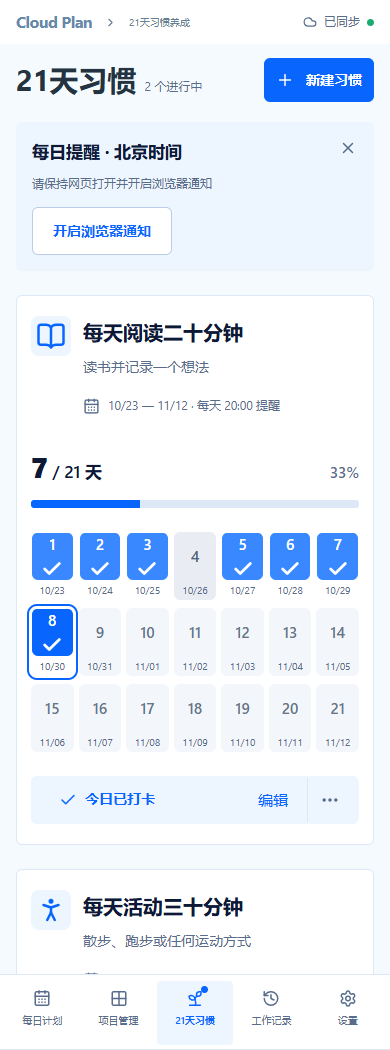
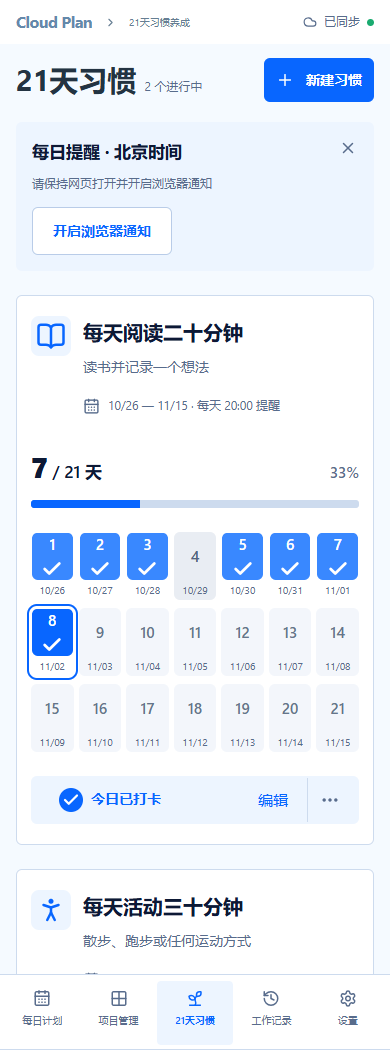
docs: refresh README for approved UI and deferred cloud sync

diff --git a/README.md b/README.md
@@ -1,6 +1,6 @@
 # Cloud Plan · 个人计划空间
 
-**让计划清晰，让生活轻盈。**
+**让计划灵活，让生活轻盈。**
 
 Cloud Plan 是一款中文个人计划工具，将每日清单、周重点、长期目标、习惯打卡和工作记录放在同一个空间里。从安排今天要做的事，到回顾一段时间的投入与成果，手机和电脑都可以接续使用。
 
@@ -8,41 +8,49 @@ Cloud Plan 是一款中文个人计划工具，将每日清单、周重点、长
 
 ![Cloud Plan 欢迎页](docs/images/welcome.png)
 
-> 以下为 2026-10-30 更新的「晴空编辑部」界面演示截图，不包含真实个人计划或访问密钥。点击图片可查看大图。
+> 以下为 2026-11-02 更新的蓝白工作台界面演示截图，不包含真实个人计划或访问密钥。点击图片可查看大图。
+
+## 最近更新
+
+- **连续编辑与延迟同步**：操作立即反馈，停止编辑 30 秒后自动同步；继续修改会重新计时，也可点击同步状态立即上传。
+- **每日工作台**：横向七天日历、今日重点、轻量进度条与可折叠完成清单；右侧集中展示本周重点。
+- **项目层级与时间轴**：项目、子项目和子任务以连线区分，进度、截止日期与操作对齐；展开时间轴项目可直接查看相关子任务。
+- **四象限共享画布**：实线坐标轴、外围虚线和红黄蓝灰分类圆点，保留嵌套项目气泡与可拖动的白色任务卡。
+- **统一页面细节**：更新习惯打卡、完成记录图表、设置备份及欢迎页，操作菜单按需展开。
 
 ## 界面一览
 
-界面采用「晴空编辑部」风格：云白与浅天蓝底色、蓝色操作按钮、衬线标题和细分隔线，让任务内容成为视觉重点。桌面端通过导航栏切换页面，手机端使用底部导航；每日清单、目标卡片和统计图会随屏幕尺寸调整布局。
+界面采用蓝白工作台设计：浅蓝背景、白色内容区、无衬线标题和蓝色操作按钮，以层级连线、分栏及进度条呈现任务关系。桌面端通过导航栏切换页面，手机端使用底部导航；每日清单、目标卡片和统计图会随屏幕尺寸调整布局。
 
 | 页面 / 区域 | 你可以看到和完成什么 |
 | --- | --- |
 | 每日计划 | 本周重点、七天概览、当天待办、完成进度和往日未完成事项 |
 | 项目管理 | 项目层级、漂浮四象限、时间轴、每日安排和周目标关联 |
-| 21天习惯养成 | 习惯卡片、21 天打卡格、练习进度和每日提醒 |
+| 21天习惯 | 习惯卡片、21 天打卡格、练习进度和每日提醒 |
 | 工作记录 | 今日、本周、近 30 天工作时长，以及完成量趋势与完成记录 |
 | 设置与备份 | 导出与恢复计划数据、管理当前设备记住的访问密钥 |
 
 ## 每日计划：把今天安排清楚
 
-![每日计划：左侧查看当日清单与进度，右侧安排周重点并切换日期。](docs/images/daily.png)
+![每日计划：顶部七天日历切换日期，左侧查看今日清单与进度，右侧安排本周重点。](docs/images/daily.png)
 
-每日计划：左侧查看当日清单与进度，右侧安排周重点并切换日期。
+每日计划：顶部七天日历切换日期，左侧查看今日清单与进度，右侧安排本周重点。
 
-选择日期即可查看当天清单，新增任务、点击标题编辑，或勾选完成。任务支持备注、计划日期和截止日期，可以用上下箭头调整顺序。
+选择日期即可查看当天清单，新增任务、点击标题编辑，或勾选完成。任务支持备注、计划日期和截止日期，可在任务操作菜单中调整顺序、安排日期或管理任务。
 
-- **当日进度**：通过概览与进度环查看当天的完成情况。
+- **当日进度**：通过完成数量与横向进度条查看当天的完成情况。
 - **目标联动**：项目或周重点的子任务可一键加入选定日期的每日清单，完成状态在各视图保持一致。
 - **拖动改期**：通过任务的拖动安排入口，将每日任务或周重点子任务拖到日期目标，调整计划日期。项目子任务也可撤回每日计划，保留原项目记录。
 - **往日待办**：展开未完成事项，按需逐条或批量顺延，避免遗漏。
 - **即时操作反馈**：新增、编辑、改期、完成等变更立即显示；停止修改 30 秒后后台同步，有新变更会重新计时。点击右上角同步状态可立即上传。未同步时离开页面会提示，请等待“已同步”后关闭。
 
-计划日期表示准备在哪天做，截止日期表示最晚何时完成，两者可以分别设置。完成事项会移出待办列表，并进入完成记录。
+计划日期表示准备在哪天做，截止日期表示最晚何时完成，两者可以分别设置。完成事项收纳到可折叠的已完成分组，并可在工作记录中回顾。
 
 ## 周计划：先确定这一周的重点
 
 桌面端每日清单右侧提供周计划区域，以北京时间的周一至周日为一周。
 
-可以切换周次，新增、编辑、删除和完成本周重点；七天概览显示各日待办数量，点击某一天即可切换下方清单。周重点支持拆分子任务并安排到每日清单。项目也可以加入所属周目标，直接展示原项目及其进度，无需复制记录。
+可以切换周次，新增、编辑、删除和完成本周重点；页面顶部的七天日历显示每日任务数量，点击日期即可切换当天清单。周重点支持拆分子任务并安排到每日清单。项目也可以加入所属周目标，直接展示原项目及其进度，无需复制记录。
 
 未完成重点会保留在所属周，不会自动顺延到下一周。
 
@@ -50,7 +58,7 @@ Cloud Plan 是一款中文个人计划工具，将每日清单、周重点、长
 
 ![项目列表：展开项目与子项目，查看子任务并加入每日计划](docs/images/goals-list.png)
 
-项目列表用可折叠的层级组织内容：上层项目承载方向，子项目划分阶段，子任务落实具体行动。展开项目即可查看完成数量，继续添加子项目或子任务；项目设置收纳编辑、完成与删除等操作。
+项目列表用可折叠的层级组织内容：上层项目承载方向，子项目划分阶段，子任务落实具体行动。展开项目即可查看完成数量，继续添加子项目或子任务；行末省略号菜单收纳编辑、完成与删除等操作，层级连线帮助识别所属关系。
 
 - **安排到每天**：选择安排日期，点击子任务的“加入每日计划”。各页面引用同一条记录，避免重复创建任务。
 - **关联周目标**：将项目加入选定周的目标，在每日页面的周计划区域继续查看和推进。
@@ -64,7 +72,8 @@ Cloud Plan 是一款中文个人计划工具，将每日清单、周重点、长
 
 切换到“子任务四象限”，按重要与紧急程度查看未完成子任务，也可用顶部分类按钮只显示一个象限。
 
-- **漂浮任务卡片**：卡片随标题长度调整尺寸，以颜色体现截止日期优先级，在区域内缓慢移动并避让。
+- **共享画布**：纵轴向上表示更重要，横轴向左表示更紧急；外围虚线划定范围，红、黄、蓝、灰小圆点标识四类象限。
+- **白色任务卡片**：统一使用白色卡片展示标题和日期，保留缓慢漂浮、避让及拖动能力。
 - **项目气泡**：椭圆气泡包裹所属项目的任务，嵌套气泡表达子项目层级。直接子项目超过 3 个时省略该层气泡，减少视觉拥挤。
 - **展开与迁移**：单击标题查看详情；鼠标按住即可拖动，触屏长按约 180 毫秒后拖动，通过迁移目标调整象限。键盘可使用 Shift+Enter 选择象限。
 
@@ -90,9 +99,9 @@ Cloud Plan 是一款中文个人计划工具，将每日清单、周重点、长
 
 ## 工作记录：回顾时间投入与完成成果
 
-![工作记录：上方汇总投入时长，下方用分类柱状图和完成清单回顾成果。](docs/images/work.png)
+![工作记录：顶部汇总投入时长，中间并排查看时长与完成量图表，下方搜索和回顾完成记录。](docs/images/work.png)
 
-工作记录：上方汇总投入时长，下方用分类柱状图和完成清单回顾成果。
+工作记录：顶部汇总投入时长，中间并排查看时长与完成量图表，下方搜索和回顾完成记录。
 
 ### 工作时长
 
@@ -122,7 +131,7 @@ Cloud Plan 是一款中文个人计划工具，将每日清单、周重点、长
 
 设置与备份：查看同步状态，导出或恢复数据，并管理本机记住的密钥。
 
-页面可见时每 15 秒检查更新，重新聚焦时也会刷新。在电脑上安排计划后，可以在手机上继续查看和操作。
+页面可见时每 15 秒检查云端更新，重新聚焦时也会刷新；本机有待保存编辑时优先保留当前操作。写入采用停止编辑 30 秒后同步的方式，顶部同步状态可手动触发立即上传。在电脑上安排计划后，可以在手机上继续查看和操作。
 
 “设置与备份”支持导出 JSON，保存任务、周重点、习惯及打卡记录。恢复前会校验文件并显示数据数量，确认后先下载当前数据备份，再替换云端数据。**工作时长独立保存，需要在工作记录页面单独导出。**
 
